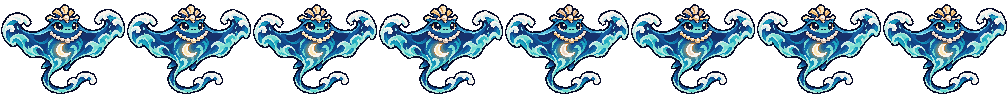
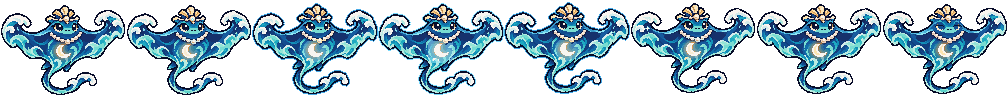
P5-70: Inkspector blinks both eyes, Serpentide's mouth reads on dark, richer Tidecrown idle
- Inkspector: the lens eye closes with the other one.
- Serpentide: the open mouth was background; it now has a mouth colour.
- Tidecrown: moon glow with an aura, crown and wingtip sparkles, float and blink.
- Version 0.1.33.

Changed region(s): [[0.0, 0.0306, 1.0, 0.949], [0.0308, 0.551, 0.123, 0.949], [0.123, 0.398, 0.1538, 0.4286]]

diff --git a/plugin/content/CREDITS.md b/plugin/content/CREDITS.md
@@ -25,7 +25,7 @@ noted (decision 0011). Add a row whenever you add or change an asset.
 | `modsters/sunmane/desktop.png` | @victor-aguilars (drawn with Claude Code) | CC BY 4.0 | Sunmane redesigned as a lion with a bronze sun-disc mane and a sundial horn (P5-69, decision 0045), reduced from @victor-aguilars' reference; its flame tail swishes and it blinks |
 | `modsters/twiggle/desktop.png` | @victor-aguilars (drawn with Claude Code) | CC BY 4.0 | Twiggle redesigned as a shy ghost in a tumbleweed hood (P5-69, decision 0045), reduced from @victor-aguilars' reference; its tail sways and it blinks |
 | `modsters/flopple/desktop.png` | @victor-aguilars (drawn with Claude Code) | CC BY 4.0 | Flopple redesigned as a sleepy tide loaf in a seashell nightcap, from @victor-aguilars' reference (P5-70, decision 0045); it breathes and dozes off |
-| `modsters/serpentide/desktop.png` | @victor-aguilars (drawn with Claude Code) | CC BY 4.0 | Serpentide redesigned as a serpent of living sea water, from @victor-aguilars' reference (P5-70, decision 0045); its head sways and it blinks |
+| `modsters/serpentide/desktop.png` | @victor-aguilars (drawn with Claude Code) | CC BY 4.0 | Serpentide redesigned as a serpent of living sea water, from @victor-aguilars' reference (P5-70, decision 0045); its head sways, it blinks and its mouth is coloured to read on dark |
 | `modsters/sporrow/sprite.png` | @danielpg95 and @victor-aguilars (drawn with Claude Code) | CC BY 4.0 | Sporrow, redrawn in P5-19 from @danielpg95's reference, keeping @victor-aguilars' design (puppet fungus) |
 | `modsters/sporrow/desktop.png` | @danielpg95 and @victor-aguilars (drawn with Claude Code) | CC BY 4.0 | Sporrow's desktop sheet (P5-55, decision 0045), reduced from @danielpg95's reference, keeping @victor-aguilars' design; bending thread arms, drifting spores and a blink |
 | `modsters/fernox/sprite.png` | @danielpg95 and @victor-aguilars (drawn with Claude Code) | CC BY 4.0 | Fernox, redrawn in P5-19 from @danielpg95's reference, keeping @victor-aguilars' design (fern-tail fox kit) |
@@ -59,8 +59,8 @@ noted (decision 0011). Add a row whenever you add or change an asset.
 | `modsters/sir-kelpsie/desktop.png` | @victor-aguilars (drawn with Claude Code) | CC BY 4.0 | Sir Kelpsie redrawn as a kelpie knight on a curl of sea water, from @victor-aguilars' reference (P5-70, decision 0045); it floats on its water tail |
 | `modsters/peekashell/desktop.png` | @victor-aguilars (drawn with Claude Code) | CC BY 4.0 | Peekashell's desktop sheet, from @victor-aguilars' reference (P5-70, decision 0045); its pearl eye looks side to side |
 | `modsters/flexton/desktop.png` | @victor-aguilars (drawn with Claude Code) | CC BY 4.0 | Flexton's desktop sheet, from @victor-aguilars' reference (P5-70, decision 0045); it pumps its arms and blinks |
-| `modsters/inkspector/desktop.png` | @victor-aguilars (drawn with Claude Code) | CC BY 4.0 | Inkspector redrawn as a living ink blot in a kelp trench coat, from @victor-aguilars' reference (P5-70, decision 0045); it bobs and winks |
-| `modsters/tidecrown/desktop.png` | @victor-aguilars (drawn with Claude Code) | CC BY 4.0 | Tidecrown, a moonlit tide spirit, from @victor-aguilars' reference (P5-70, decision 0045); its wingtips flap and the moon in its chest pulses |
+| `modsters/inkspector/desktop.png` | @victor-aguilars (drawn with Claude Code) | CC BY 4.0 | Inkspector redrawn as a living ink blot in a kelp trench coat, from @victor-aguilars' reference (P5-70, decision 0045); it bobs and blinks |
+| `modsters/tidecrown/desktop.png` | @victor-aguilars (drawn with Claude Code) | CC BY 4.0 | Tidecrown, a moonlit tide spirit, from @victor-aguilars' reference (P5-70, decision 0045); its wingtips flap, the moon in its chest glows with an aura, sparkles glint on its crown and wingtips, and it floats and blinks |
 | `biomes/whispering-forest/background.png` | @danielpg95 (drawn with Claude Code) | CC BY 4.0 | Idle scene (decision 0026) |
 | `biomes/whispering-forest/desktop.png` | @danielpg95 (drawn with Claude Code) | CC BY 4.0 | Whispering Forest's desktop background (P5-48, decision 0045), reduced from @danielpg95's reference; the undergrowth sways |
 | `biomes/whispering-forest/particles.png` | @danielpg95 (drawn with Claude Code) | CC BY 4.0 | Whispering Forest's falling leaf on desktop (P5-48, decision 0046): it turns and flips as it falls |

diff --git a/docs/WORKBOARD.md b/docs/WORKBOARD.md
@@ -16,7 +16,7 @@ this file lists only tasks someone has claimed.
 | Task | Owner | Status | Branch | Started | Updated | Next step |
 | --- | --- | --- | --- | --- | --- | --- |
 | P5-64 | @victor-aguilars | in-review | p5-64-desktop-collection-cards | 2026-11-01 | 2026-11-01 | Get the P5-64 PR reviewed; @danielpg95 accepts or reworks 0054, then tick the last item and close the task |
-| P5-70 | @victor-aguilars | in-review | p5-70-bay-redesign | 2026-11-02 | 2026-11-02 | Review the eight sheets in the PR and approve or ask for changes; then check a few in the Code tab with 0.1.32 |
+| P5-70 | @victor-aguilars | in-review | p5-70-bay-redesign | 2026-11-02 | 2026-11-03 | Review the revised Inkspector, Serpentide and Tidecrown sheets; then check a few in the Code tab with 0.1.33 |
 
 ## Up next
 
